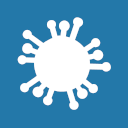
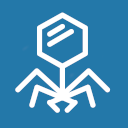
New images and config for viral collections

Changed region(s): [[0.0938, 0.0938, 0.875, 0.9062]]

diff --git a/covid19/htdocs/info/about/image_credits.html b/covid19/htdocs/info/about/image_credits.html
@@ -1,0 +1,13 @@
+<html>
+<head>
+<title>Credits for species images</title>
+<meta name="order" content="20" />
+</head>
+<body>
+
+<h1>Credits for species images</h1>
+
+<p>Our species images and icons are sourced from public domain resources or with the permission of their creators.</p>
+
+</body>
+</html>
